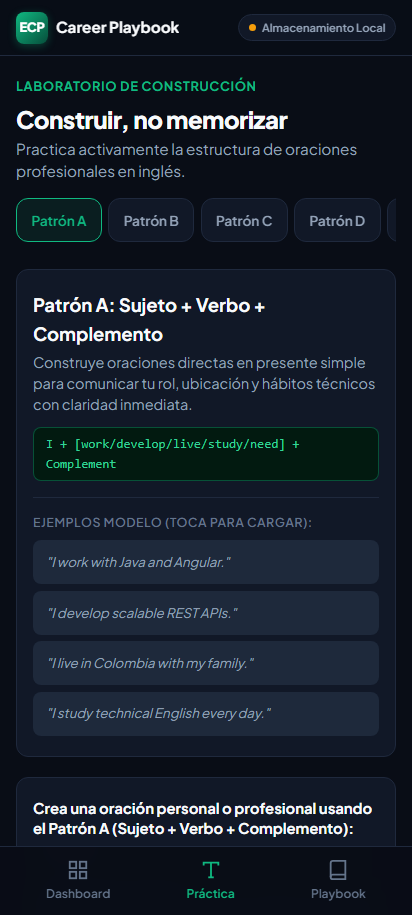
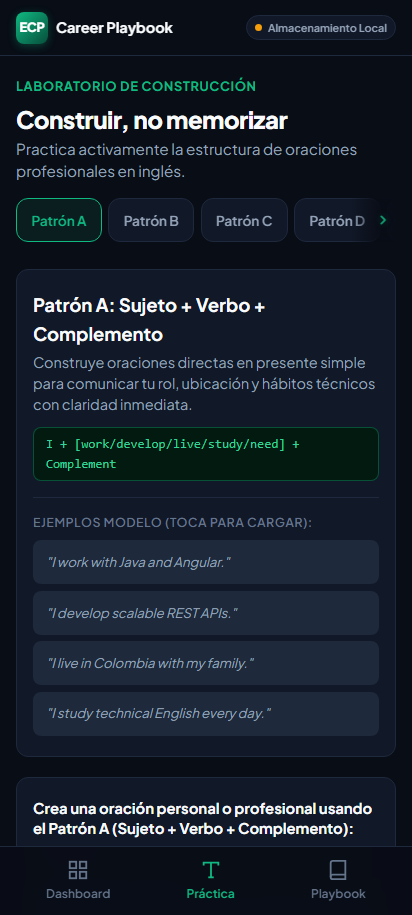
fix(responsive): refine tablet header breakpoint and add pattern tabs scroll affordance

Changed region(s): [[0.6117, 0.0, 0.932, 0.0612], [0.1748, 0.0, 0.4369, 0.0612], [0.9029, 0.2142, 0.932, 0.2448]]

diff --git a/src/app/features/practice/practice.component.html b/src/app/features/practice/practice.component.html
@@ -6,19 +6,26 @@
       <p class="page-subtitle">Practica activamente la estructura de oraciones profesionales en inglés.</p>
     </div>
 
-    <div class="pattern-tabs" role="tablist" aria-label="Patrones gramaticales">
-      @for (pattern of patterns; track pattern.id) {
-        <button
-          type="button"
-          class="tab-btn"
-          role="tab"
-          [attr.aria-selected]="pattern.id === selectedPattern.id"
-          [class.active]="pattern.id === selectedPattern.id"
-          (click)="selectPattern(pattern)"
-        >
-          {{ pattern.name.split(':')[0] }}
-        </button>
-      }
+    <div class="pattern-tabs-wrapper">
+      <div class="pattern-tabs" role="tablist" aria-label="Patrones gramaticales">
+        @for (pattern of patterns; track pattern.id) {
+          <button
+            type="button"
+            class="tab-btn"
+            role="tab"
+            [attr.aria-selected]="pattern.id === selectedPattern.id"
+            [class.active]="pattern.id === selectedPattern.id"
+            (click)="selectPattern(pattern)"
+          >
+            {{ pattern.name.split(':')[0] }}
+          </button>
+        }
+      </div>
+      <div class="tabs-scroll-indicator" aria-hidden="true">
+        <svg viewBox="0 0 20 20" fill="currentColor">
+          <path fill-rule="evenodd" d="M7.293 14.707a1 1 0 010-1.414L10.586 10 7.293 6.707a1 1 0 011.414-1.414l4 4a1 1 0 010 1.414l-4 4a1 1 0 01-1.414 0z" clip-rule="evenodd"/>
+        </svg>
+      </div>
     </div>
   </div>
 

diff --git a/src/app/features/practice/practice.component.css b/src/app/features/practice/practice.component.css
@@ -35,13 +35,58 @@
   line-height: 1.45;
 }
 
+.pattern-tabs-wrapper {
+  position: relative;
+  width: 100%;
+  min-width: 0;
+}
+
 .pattern-tabs {
   display: flex;
   gap: 0.4rem;
   overflow-x: auto;
   padding-bottom: 0.4rem;
+  padding-right: 2.5rem;
   width: 100%;
   -webkit-overflow-scrolling: touch;
+  scrollbar-width: none;
+}
+
+.pattern-tabs::-webkit-scrollbar {
+  display: none;
+}
+
+.tabs-scroll-indicator {
+  position: absolute;
+  right: 0;
+  top: 0;
+  bottom: 0.4rem;
+  width: 44px;
+  background: linear-gradient(to right, rgba(9, 13, 22, 0), rgba(9, 13, 22, 0.95) 65%);
+  pointer-events: none;
+  display: flex;
+  align-items: center;
+  justify-content: flex-end;
+  padding-right: 0.35rem;
+  color: var(--accent-emerald);
+}
+
+.tabs-scroll-indicator svg {
+  width: 18px;
+  height: 18px;
+  filter: drop-shadow(0 0 4px rgba(16, 185, 129, 0.4));
+  animation: pulse-scroll 2s infinite ease-in-out;
+}
+
+@keyframes pulse-scroll {
+  0%, 100% {
+    transform: translateX(0);
+    opacity: 0.5;
+  }
+  50% {
+    transform: translateX(3px);
+    opacity: 1;
+  }
 }
 
 .tab-btn {
@@ -449,6 +494,14 @@
 }
 
 @media (min-width: 640px) {
+  .tabs-scroll-indicator {
+    display: none;
+  }
+
+  .pattern-tabs {
+    padding-right: 0;
+  }
+
   .pattern-header {
     flex-direction: row;
     justify-content: space-between;

diff --git a/src/app/app.component.css b/src/app/app.component.css
@@ -63,7 +63,7 @@
 }
 
 .brand-title {
-  font-size: 0.95rem;
+  font-size: 0.9rem;
   font-weight: 700;
   color: var(--text-primary);
   line-height: 1.2;
@@ -87,10 +87,10 @@
 .nav-status {
   display: flex;
   align-items: center;
-  gap: 0.4rem;
+  gap: 0.35rem;
   background: var(--bg-card);
   border: 1px solid var(--border-subtle);
-  padding: 0.25rem 0.6rem;
+  padding: 0.2rem 0.5rem;
   border-radius: var(--radius-full);
   flex-shrink: 0;
 }
@@ -109,7 +109,7 @@
 }
 
 .status-text {
-  font-size: 0.7rem;
+  font-size: 0.675rem;
   font-weight: 600;
   color: var(--text-secondary);
   white-space: nowrap;
@@ -168,18 +168,17 @@
 
 @media (min-width: 768px) {
   .navbar {
-    height: 68px;
+    height: 60px;
   }
 
   .nav-container {
     padding: 0 1.5rem;
-    gap: 1.5rem;
   }
 
   .brand-icon {
-    width: 38px;
-    height: 38px;
-    font-size: 0.9rem;
+    width: 36px;
+    height: 36px;
+    font-size: 0.85rem;
   }
 
   .brand-title {
@@ -188,6 +187,26 @@
 
   .brand-sub {
     display: block;
+  }
+
+  .main-content {
+    padding: 2rem 1.5rem calc(5rem + env(safe-area-inset-bottom, 0px)) 1.5rem;
+  }
+}
+
+@media (min-width: 1024px) {
+  .navbar {
+    height: 68px;
+  }
+
+  .nav-container {
+    gap: 1.5rem;
+  }
+
+  .brand-icon {
+    width: 38px;
+    height: 38px;
+    font-size: 0.9rem;
   }
 
   .nav-links {
